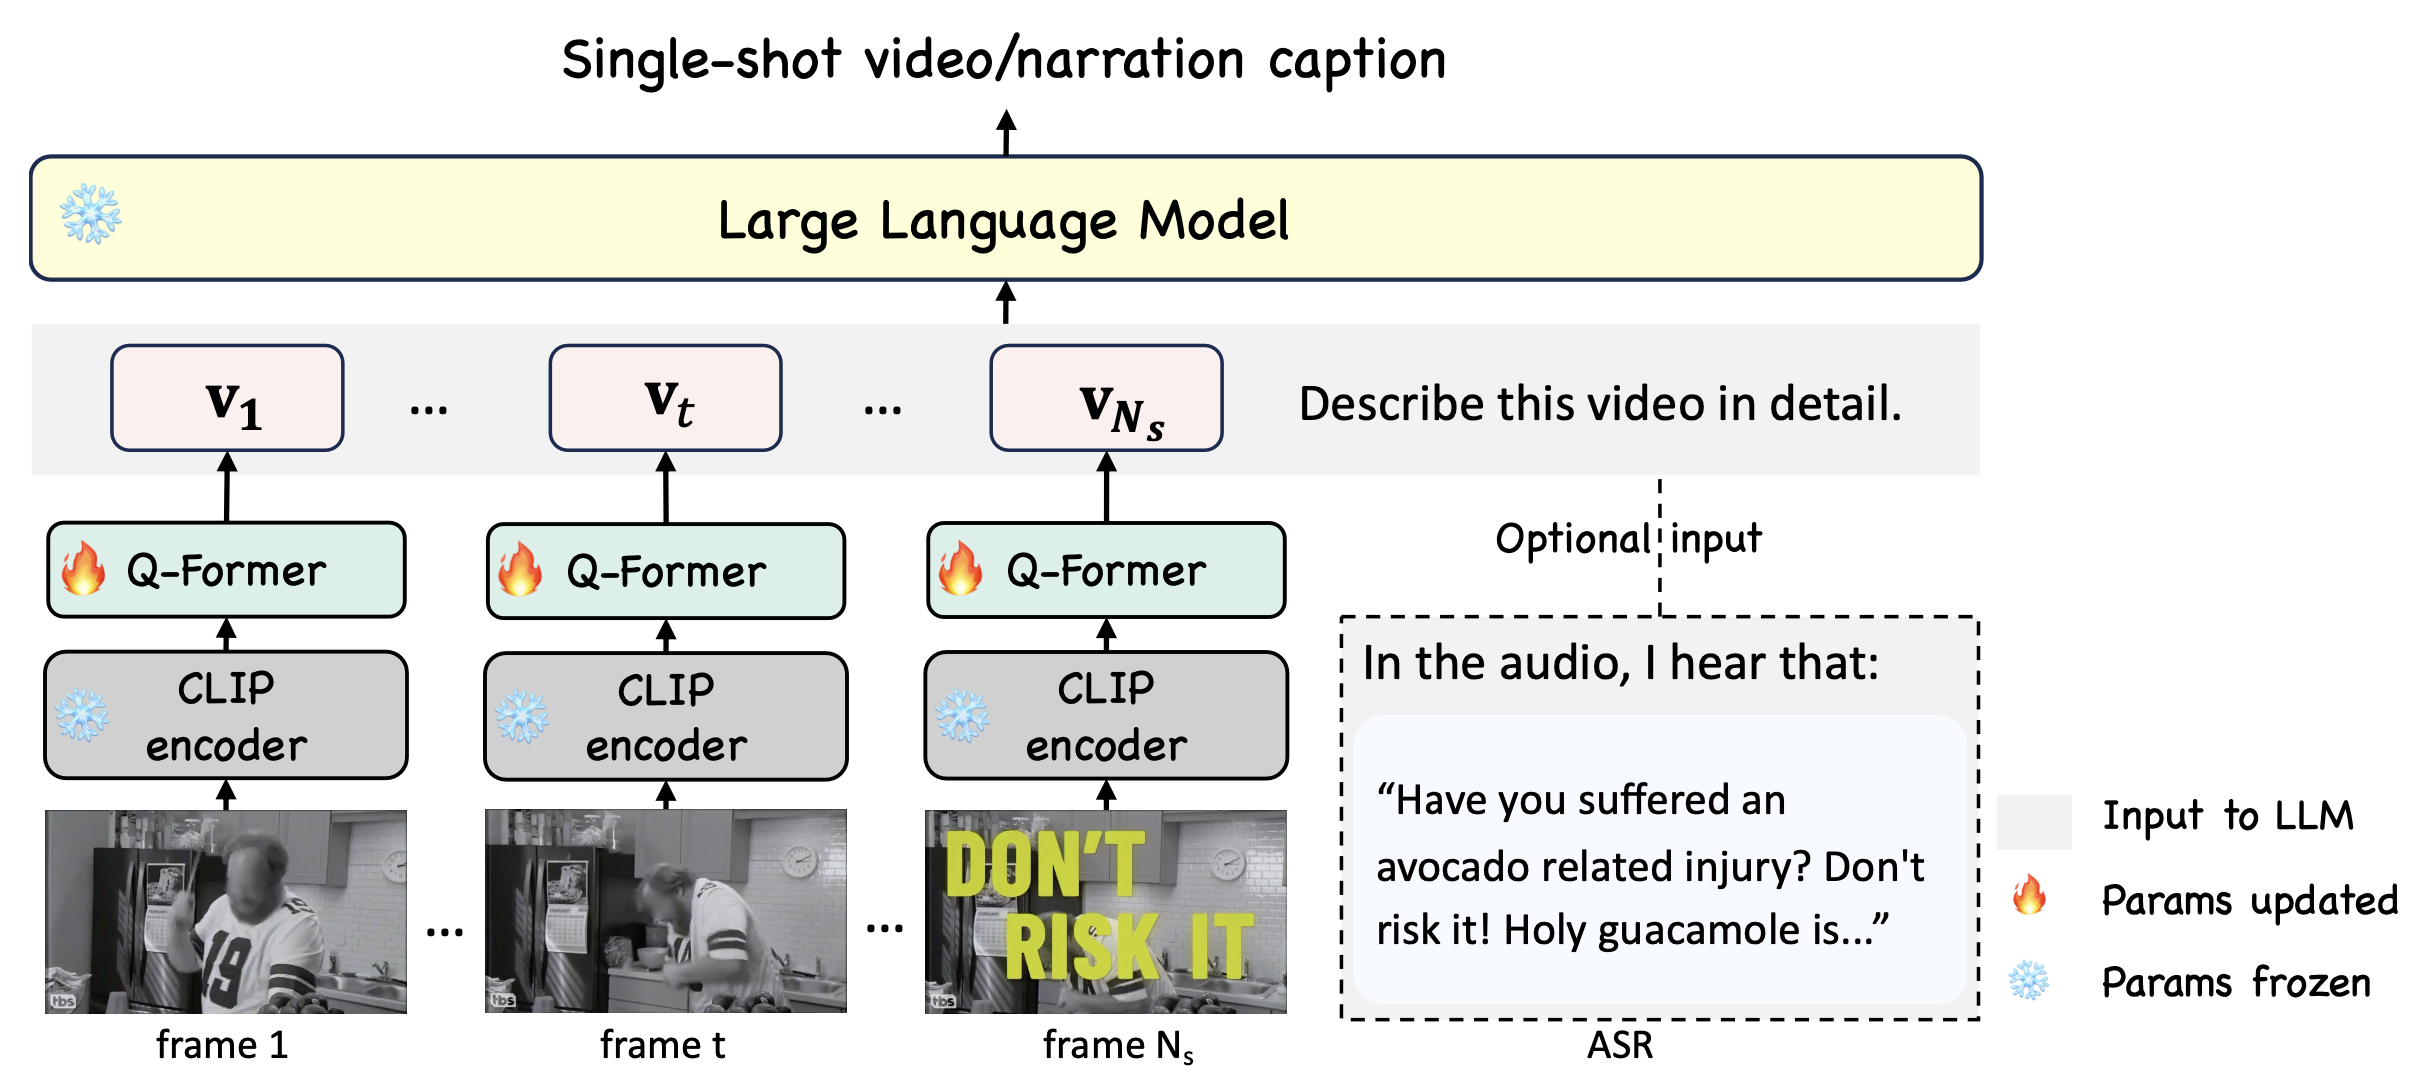
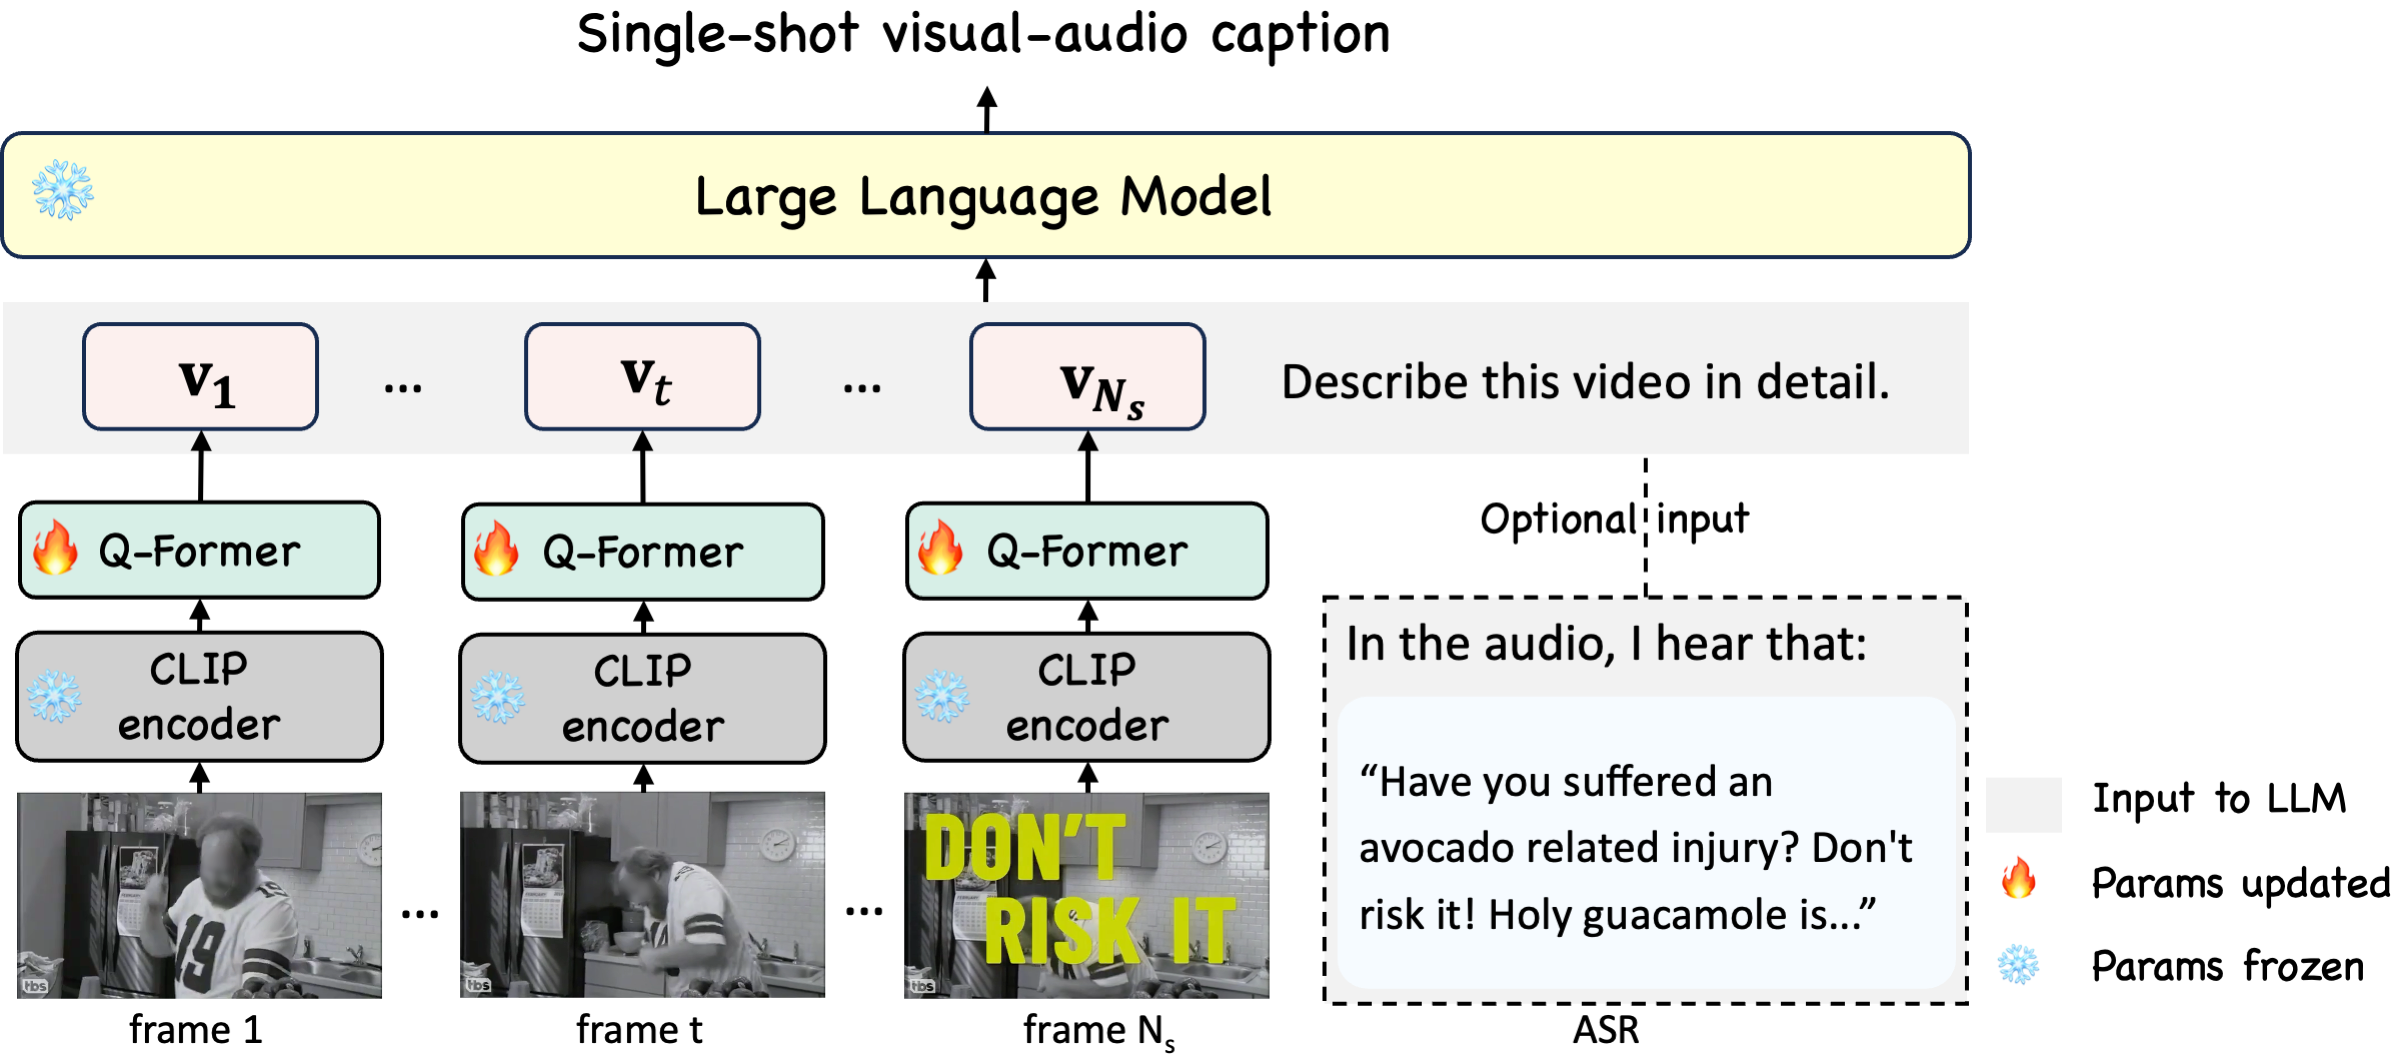
update qa

diff --git a/index.html b/index.html
@@ -292,6 +292,12 @@
   <section class="hero teaser">
     <div class="container">
       <div class="news-item">
+          <span class="news-icon" style="color: #4CAF50;">🌟</span>
+          <span class="news-title"> 5 June Release: <a href="https://huggingface.co/datasets/mhan/shot2story" style="color: #007bff;"><u>Shot2Story-QA benchmark</u></a></span>
+          <br>
+          <span style="font-size: 14px;">Explore 11K question-answering pairs for benchmarking video-language models on multi-shot understanding. The quality is ensured by human annotation and verification.</span>
+      </div>
+      <div class="news-item">
           <span class="news-icon" style="color: #4CAF50;">🚀</span>
           <span class="news-title"> Demo Update: <a href="https://huggingface.co/spaces/mhan/Shot2Story" style="color: #007bff;"><u>ChatBot Demo</u></a> and <a href="https://huggingface.co/spaces/mhan/Shot2Story-SUM" style="color: #007bff;"><u>SumBot Demo</u></a></span>
           <br>
@@ -299,7 +305,7 @@
       </div>
       <div class="news-item">
           <span class="news-icon" style="color: #4CAF50;">🌟</span>
-          <span class="news-title"> 24 April Release: <a href="https://huggingface.co/datasets/mhan/shot2story" style="color: #007bff;"><u>134K version (QA on the way)</u></a></span>
+          <span class="news-title"> 24 April Release: <a href="https://huggingface.co/datasets/mhan/shot2story" style="color: #007bff;"><u>134K version (QA on the way): 43K manual + 90K GPT-V</u></a></span>
           <br>
           <span style="font-size: 14px;">Explore 134k videos with detailed text summaries, consisting of 43K human-annotated and 90k GPTV generated data. Moreover, we release 188K video shots with human-annotated visual captions, and 95K shots with narration captions.</span>
       </div>
@@ -362,14 +368,13 @@
           <h2 class="title is-3">Abstract</h2>
           <div class="content has-text-justified">
             <p>
-              A short clip of video may contain progression of multiple events and an interesting story line. A human needs to capture both the event in every shot and associate them together to understand the story behind it. 
+              A short clip of video may contain progression of multiple events and an interesting story line. A human need to capture both the event in every shot and associate them together to understand the story behind it. 
             </p>
             <p>
-              In this work, we present a new multi-shot video understanding benchmark Shot2Story with detailed shot-level captions and comprehensive video summaries. To facilitate better semantic understanding of videos, we provide captions for both visual signals and human narrations. We design several distinct tasks including single-shot video and narration captioning, multi-shot video summarization, and video retrieval with shot descriptions. 
+              In this work, we present a new multi-shot video understanding benchmark \dataset with detailed shot-level captions, comprehensive video summaries and question-answering pairs. To facilitate better semantic understanding of videos, we provide captions for both visual signals and human narrations. We design several distinct tasks including single-shot video captioning, multi-shot video summarization, and multi-shot video question answering. 
             </p>
             <p>
-              Preliminary experiments show some challenges to generate a long and comprehensive video summary.
-              Nevertheless, the generated imperfect summaries can already significantly boost the performance of existing video understanding tasks such as video question-answering, promoting an underexplored setting of video understanding with detailed summaries.
+              Preliminary experiments show some challenges to generate a long and comprehensive video summary for multi-shot videos. Nevertheless, the generated imperfect summaries can already achieve competitive performance on existing video understanding tasks such as video question-answering, promoting an under-explored setting of video understanding with detailed summaries.
             </p>
           </div>
         </div>
@@ -405,21 +410,21 @@
           <br>
           <div class="content has-text-justified">
             <p>
-              We provide 20k videos with diverse topics and contents. Each video is annotated with shot-level captions and comprehensive video summaries. To facilitate better semantic understanding of videos, we provide captions for both visual signals and human narrations. 
+              We provide 43K videos with diverse topics and contents. Each video is annotated with shot-level captions and comprehensive video summaries. To facilitate better semantic understanding of videos, we provide captions for both visual signals and human narrations. 
             </p>
           </div>
           <br>
           <!-- <br> -->
           <h2 class="title is-4">Dataset glance</h2>
           <div class="content has-text-justified">
-            <img src="./static/images/S2S_demo.png" style="width:100%;height:auto;text-align:center;">
+            <img src="./static/images/S2S_demo_wqa.png" style="width:100%;height:auto;text-align:center;">
             <p>
-              The dataset includes an average of 4.0 shots per video, resulting in a total of 80k video shots, each with detailed video caption and narration caption annotations. The average length of our video summaries is 201.8, while the average length of a video is 16s.
+              The dataset includes 43K multi-shot videos, with an average of 4.4 shots per video, resulting in a total of 188k video shots, each with detailed video caption and narration caption annotations. The average length of our video summaries is 218.3, while the average length of a video is 17.1s. In addition, we annotate another 90K multi-shot videos with GPT-V, to facillate better video-language model training.
             </p>
             <p>
               For more comprehensive details, please refer to the plots below.
             </p>
-            <img src="./static/images/dataset_glance.png" style="width:100%;height:auto;text-align:center;">
+            <img src="./static/images/stats-new.png" style="width:100%;height:auto;text-align:center;">
           </div>
           <br>
           <h2 class="title is-4">Comparison to datasets</h2>
@@ -427,7 +432,7 @@
             <p>
               High level comparison of our dataset to previous ones. The summary length of ActivityNet and YouCook2 are their combined length of captions in one video. M and G stands for manual and generated, respectively.
             </p>
-            <img src="./static/images/datasets_comparison.png" style="width:100%;height:auto;text-align:center;">
+            <img src="./static/images/datasets_comparison_new.png" style="width:100%;height:auto;text-align:center;">
           </div>
           <!-- <h2 class="title is-3">What does Shot2Story provide?</h2>
           <div class="content has-text-justified">
@@ -440,27 +445,22 @@
           <h2 class="title is-3">Baselines and Tasks</h2>
           <div class="content has-text-justified">
             <p>
-              We experiment on tasks like single-shot video captioning, narration captioning, video summarization, video shot retrieval and video question-answering. Papers and codes are released. We also provide online demos of ChatBot and SumBot. Please have a look at it!
+              We experiment on tasks like single-shot video captioning, video summarization and video question-answering. Papers and codes are released. We also provide online demos of ChatBot and SumBot. Please have a look at it!
             </p>
           </div>
           
           <br>
-          <h2 class="title is-4">Single-shot captioning - visual and audio</h2>
+          <h2 class="title is-4">Single-shot video captioning - visual and audio</h2>
           <div class="content has-text-justified">
             <p>
-              For each single video shot, we experiment on single-shot video captioning and narration captioning. Model structure is shown below. Visual tokens from the CLIP visual backbone and Q-Former (together with a linear layer from MiniGPT4), along with text prompts, form the input to the Vicuna. ASR input is optional for single-shot video captioning.
+              This task involves generating descriptions for individual video shots, where the target description is a concatenation of the visual-only and narration caption for a video shot. This task requires a joint understanding of visual and speech information. Model structure is shown below. Visual tokens from the CLIP visual backbone and Q-Former (together with a linear layer from MiniGPT4), along with text prompts, form the input to the Vicuna. 
             </p>
             <img src="./static/images/single_shot_model.png" style="width:100%;height:auto;text-align:center;">
             <p>
-              For video captioniong, we try visual singals and visual-audio signals as input. See the results below.
+              We experiment VAST with two settings (V+A+S and V+S. V, A and S stand for vision, audio and subtitle respectively), MiniGPT4-C and VideoChat2-C (C stands for captioning). The models are trained on our Shot2Story single-shot video caption data. See the results below.
             </p>
-            <img src="./static/images/single_shot_video_cap_res.png" style="width:45%; height:auto; display:block; margin-left:auto; margin-right:auto;">
-            <p>
-              For narration captioniong, we show the results of ASR texts only and our visual-audio model below, which shows the importance of incorporating visual signals.
-            </p>
-            <img src="./static/images/single_shot_narration_cap_res.png" style="width:56%; height:auto; display:block; margin-left:auto; margin-right:auto;">
-          </div>
-
+            <img src="./static/images/single_shot_va_cap_res.png" style="width:60%; height:auto; display:block; margin-left:auto; margin-right:auto;">
+            
           <br>
           <h2 class="title is-4">Video summarization - visual and audio</h2>
           <div class="content has-text-justified">
@@ -472,9 +472,9 @@
             </p>
             <img src="./static/images/sum_shot_model.png" style="width:100%;height:auto;text-align:center;">
             <p>
-              We experiment with different models, such as the Video-ChatGPT, SUM-shot holistic (which doesn't have shot information), SUM-text (two-stage approach with LLM tuned) and SUM-shot w/o ASR (which doesn't ASR text as input). Experiment shows that shot information and ASR information are crucial to multi-shot video summarization. Moreover, the task poses a challenge for better training scheme, as indicated by superior performance of SUM-text.
+              We experiment with different models, such as the Video-ChatGPT, MiniGPT4-SUM-shot, MiniGPT4-holistic (which doesn't have shot information), SUM-shot w/o ASR (which doesn't ASR text as input), and VideoChat2-SUM-shot (equipped with advanced vision backbone and video pretraining). Experiment shows that shot information and ASR information are crucial to multi-shot video summarization. VideoChat2-SUM-shot further confirms the importance of advanced visual representations.
             </p>
-            <img src="./static/images/sum_res.png" style="width:67%; height:auto; display:block; margin-left:auto; margin-right:auto;">
+            <img src="./static/images/sum_res_new.png" style="width:77%; height:auto; display:block; margin-left:auto; margin-right:auto;">
           </div>
 
           <br>
@@ -486,10 +486,10 @@
             <p> -->
               Specifically, we directly apply our video summarization model on video QA benchmarks MSRVTT-QA and ActivityNet-QA by splitting the testing videos into video shots and feeding them into the SUM-shot model. The generated summaries and the associated questions are then fed into a Vicuna model to derive the answers.
             </p>
-            <img src="./static/images/qa_res.png" style="width:67%; height:auto; display:block; margin-left:auto; margin-right:auto;">
-            <p>
+            <img src="./static/images/qa_res_new_zr.png" style="width:67%; height:auto; display:block; margin-left:auto; margin-right:auto;">
+            <!-- <p>
               As shown in the above table, our model outperforms Video-ChatGPT by a large margin. Our model also follows the zero-shot QA settings since the model only uses Shot2Story20K as training data. Note that MSRVTT contains a large portion of videos with out-of-domain topics such as tv shows and food, while ActivityNet has much longer videos than our training videos. This validates the the robustness and transferability of our model across different topics and longer videos. This surprisingly good result indicates that a comprehensive and detailed video summary is a high quality abstraction of the video, facilitating a wide range of tasks including video QA and video-based conversation.
-            </p>
+            </p> -->
           </div>
         </div>
       </div>
